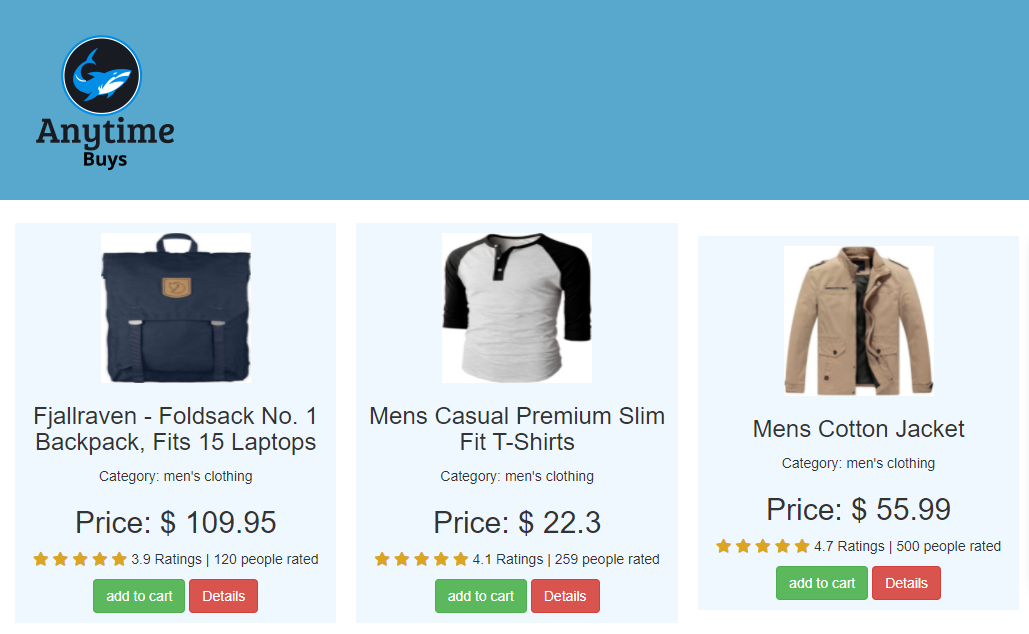
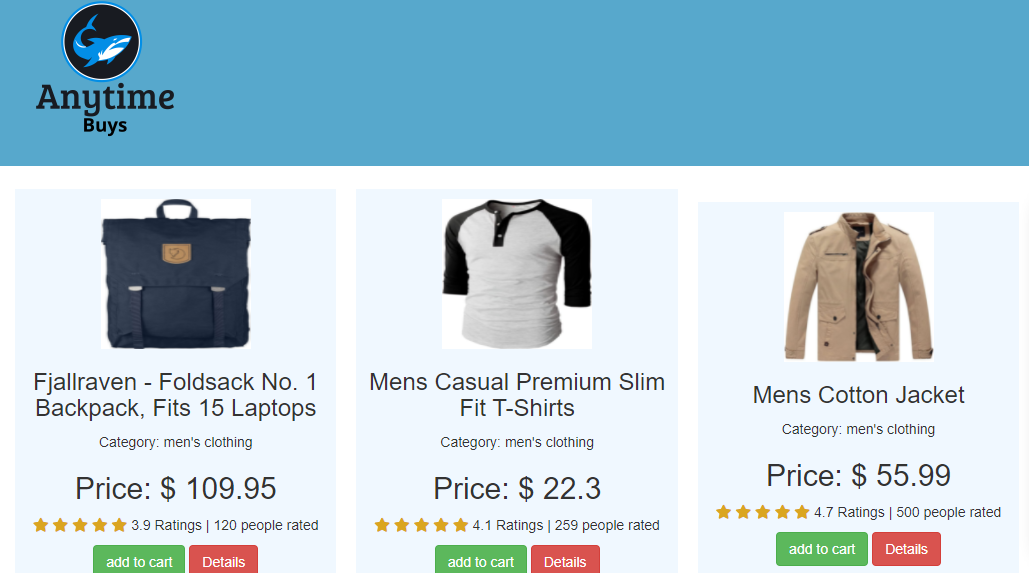
contact component complete

diff --git a/src/Pages/HomePage/Home/Home.js b/src/Pages/HomePage/Home/Home.js
@@ -8,7 +8,7 @@ import project2 from '../../../image/project/pain-care/Screenshot_1.png'
 import project3 from '../../../image/project/Tour-thirsty/Screenshot_1.png'
 import project4 from '../../../image/project/yoga-zone/Screenshot_1.png'
 import project5 from '../../../image/project/tutorial-home/Screenshot_1.png'
-import project6 from '../../../image/project/anytime-buys/Screenshot_1.png'
+import project6 from '../../../image/project/anytime-buys/Screenshot_2.png'
 import ContactMe from '../../ContactMe/ContactMe';
 import me from '../../../image/about/me.jpg';
 import banner from '../../../image/banner/banner1.jpg'
@@ -74,7 +74,8 @@ const Home = () => {
 
             <div id='All-projects' className="project-container">
                 <h2 id="projects" className="text-primary mt-5 mb-4">Explore my recent work</h2>
-                <Row xs={1} md={2} lg={3} className="g-4 all-project">
+                <div className='all-project'>
+                <Row xs={1} md={2} lg={3} className="g-4 ">
                     <Col>
                         <Card>
                             <Card.Img variant="top" src={project1} />
@@ -82,7 +83,7 @@ const Home = () => {
                                 <Card.Title>Mug Fair</Card.Title>
                                 <Card.Text>
                                     Users can register with username, email, and password. And can later log in with email and password.
-                                    Logged-in users can place orders. Placed orders can be viewed at any time by visiting My Order
+                                    Logged-in users can place orders.
                                 </Card.Text>
                                 <Button style={{ marginRight: '10px' }}>
                                     <a href="https://mug-fair.web.app/" target="_blank">Visit</a>
@@ -98,9 +99,7 @@ const Home = () => {
                                 <Card.Title>Pain care</Card.Title>
                                 <Card.Text>
                                     Users can easily book doctor's appointments on this website
-                                    React was used to create the UI of this website and Firebase  was used for authentication.
-                                    Here,
-
+                                    React was used to create the UI of this website and Firebase  was used for authentication...
                                 </Card.Text>
                                 <Button style={{ marginRight: '10px' }}> <a href="https://pain-care-1.web.app/" target="_blank">Visit</a></Button>
                                 <Button style={{ marginLeft: '10px' }}>Details</Button>
@@ -128,7 +127,7 @@ const Home = () => {
                                 <Card.Title>Yoga zone</Card.Title>
                                 <Card.Text>
                                     Through this website, members can be easily contacted and admitted to the Yoga Training Center in the Yoga Zone.
-                                    New members can easily learn about the course rules and fees by visiting the website.
+                                    New members can easily learn about the course rules and fees by visit us.
 
                                 </Card.Text>
                                 <Button style={{ marginRight: '10px' }}> <a href="https://yoga-zone.netlify.app/" target="_blank">Visit</a></Button>
@@ -165,8 +164,9 @@ const Home = () => {
                         </Card>
                     </Col>
                 </Row>
+                </div>
             </div>
-            <div id="contact" className="mb-5 container">
+            <div id="contact" className=" ">
                 <ContactMe></ContactMe>
             </div>
         </div>

diff --git a/src/Pages/ContactMe/ContactMe.js b/src/Pages/ContactMe/ContactMe.js
@@ -1,8 +1,8 @@
 import React,{useRef} from 'react';
+import './contact.css'
 import { Form } from 'react-bootstrap';
 import emailjs from 'emailjs-com';
 import{ init } from 'emailjs-com';
-
 
 init("user_5fx0exdMXDac0bi0zsGGS");
 const ContactMe = () => {
@@ -20,19 +20,19 @@ const ContactMe = () => {
       
     }
     return (
-        <div>
-          <h1 className="text-primary mt-5 mb-4">Get in Touch</h1>
-            <Form onSubmit={handleContact}>
-  <Form.Group className="mb-3" controlId="exampleForm.ControlInput1">
-    <Form.Control ref={user_name} name="user_name" type="text" placeholder="Enter your name" />
+        <div className='Contact-page-container'>
+          <h1 id='get-in-touch-h1'>Get in Touch</h1>
+            <Form onSubmit={handleContact} id='contact-form'>
+  <Form.Group className="mb-3 user-name-container" controlId="exampleForm.ControlInput1">
+    <Form.Control id="user-name-input" ref={user_name} name="user_name" type="text" placeholder="Enter your name" />
   </Form.Group>
-  <Form.Group className="mb-3" controlId="exampleForm.ControlInput1">
-    <Form.Control ref={user_email} name="user_email" type="email" placeholder="enter your email" />
+  <Form.Group className="mb-3 user-email-container" controlId="exampleForm.ControlInput1">
+    <Form.Control id='user-email-input' ref={user_email} name="user_email" type="email" placeholder="enter your email" />
   </Form.Group>
-  <Form.Group className="mb-3" controlId="exampleForm.ControlTextarea1">
-    <Form.Control ref={message} name="message" as="textarea" rows={3} placeholder="Type your massage"/>
+  <Form.Group className="mb-3 user-message" controlId="exampleForm.ControlTextarea1">
+    <Form.Control id='user-message-input' ref={message} name="message" as="textarea" rows={6} placeholder="Type your massage"/>
   </Form.Group>
-  <Form.Control style={{color:'white', backgroundColor:'#0B5ED7', width:'20%', marginLeft:'auto', marginRight:'auto'}} type="submit" value="Send" />
+  <Form.Control id='submit-button' type="submit" value="Send" />
 </Form>
         </div>
     );

diff --git a/src/Pages/ContactMe/contact.css b/src/Pages/ContactMe/contact.css
@@ -1,0 +1,52 @@
+.Contact-page-container{
+    margin-top: 50px;
+    padding-top: 12px;
+}
+#get-in-touch-h1{
+    color: ghostwhite;
+    margin-left: 14%;
+    background-image: linear-gradient(284deg, #00423a, #0e4236, #000000f7);
+    width: 30%;
+    text-align: center;
+    padding: 10px;
+    border-radius: 13px;
+}
+/* style for contact form  */
+#contact-form{
+    background-image: linear-gradient(284deg, #00423a, #0e4236, #000000f7);
+    width: 415px;
+    width: 415px;
+    margin-left: 182px;
+    border-radius: 1px;
+    text-align: center;
+    padding-top: 48px;
+    padding-bottom: 56px;
+    border-radius: 16px;
+    box-shadow: 1px 0px 10px 0px; 
+}
+
+#user-name-input{
+    margin-left: 60px;
+    width: 292px;
+}
+
+#user-email-input{
+    margin-left: 60px;
+    width: 292px;
+}
+
+#user-message-input{
+    width: 292px;
+    margin-left: 61px;
+}
+
+#submit-button{
+    background-image: linear-gradient(265deg, #146e5a, #013432);
+    width: 33%;
+    border: none;
+    margin-left: auto;
+    margin-right: auto;
+    box-shadow: 2px 2px 6px black;
+    color: white;
+    font-weight: 600;
+}

diff --git a/src/Pages/HomePage/Home/Home.css b/src/Pages/HomePage/Home/Home.css
@@ -13,7 +13,7 @@ background-size: cover;
 background-blend-mode: color-burn;
 }
 .all-project{
-    margin: 0px 40px 0px 40px;
+    padding: 40px 40px 40px 40px;
 }
 .project-container a{
     text-decoration: none;
@@ -63,7 +63,10 @@ background-blend-mode: color-burn;
     margin-left:20px ;
   
 }
-
+#contact{
+    background-image: url('../../../image/pages/contact/background.png');
+    padding-bottom: 100px;
+}
 
 @media (max-width:986px){
         .banner{

diff --git a/src/App.css b/src/App.css
@@ -1,3 +1,4 @@
 .App{
   margin: 0;
+  background-image: linear-gradient(to right, #059862,#8DF1D0);
 }
